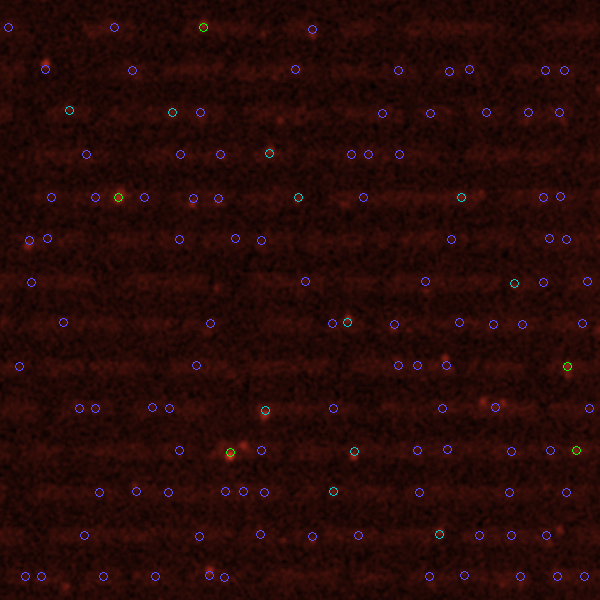
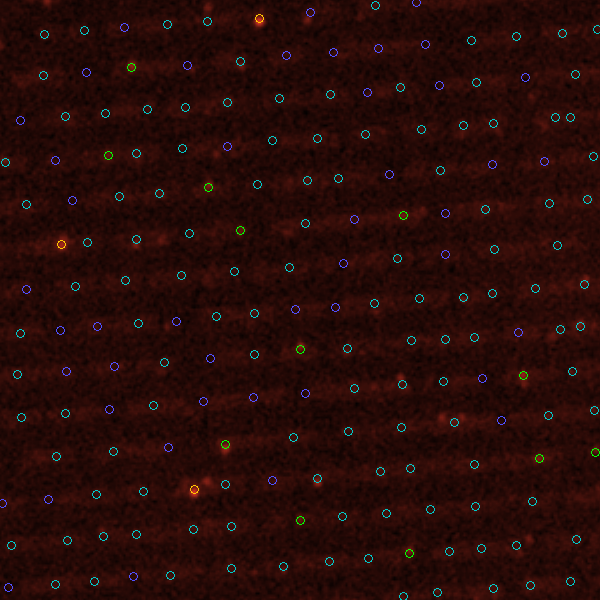
Delta K=40 test: SVM stops at K=12, confirms basis limitation
Relaxed overlap threshold to 0.999 but delta SVM still stops at K=13
(w_min=2.2e-7). Error ~2.0e-3, same as K=15 with stricter threshold.
Confirms Gaussian basis cannot efficiently represent delta cusp.

diff --git a/dachuang/analyze_grid.py b/dachuang/analyze_grid.py
@@ -69,7 +69,8 @@ def detect_rows(R, expected_spacing=42):
 
 
 def detect_spots_in_row(R, row_y, half_width=5):
-    """Find luminous spot positions within a row using peak detection."""
+    """Find luminous spot positions within a row using peak detection.
+    min_distance=30 prevents detecting noise between wells (~45px apart)."""
     y0 = max(0, row_y - half_width)
     y1 = min(R.shape[0], row_y + half_width + 1)
     strip = R[y0:y1, :].mean(axis=0)
@@ -95,17 +96,94 @@ def refine_center(R, y, x, radius=4):
     return (yy * patch_bg).sum() / total, (xx * patch_bg).sum() / total
 
 
+def fill_row_gaps(peaks, image_width, expected_period=46, margin=10):
+    """Fill gaps between detected peaks to recover ALL well positions.
+    Uses detected peaks as anchors, estimates well spacing from their
+    closest-neighbor distances, then interpolates missing wells.
+    expected_period: approximate well-to-well spacing (pixels)."""
+    if len(peaks) < 2:
+        return peaks
+
+    peaks = np.sort(peaks)
+    spacings = np.diff(peaks)
+
+    # Only consider spacings that are plausible single-well distances
+    # (0.6x to 1.5x expected period)
+    lo, hi = expected_period * 0.6, expected_period * 1.5
+    candidates = spacings[(spacings >= lo) & (spacings <= hi)]
+    if len(candidates) >= 3:
+        period = np.median(candidates)
+    else:
+        period = expected_period
+
+    if period < 15:  # sanity check
+        return peaks
+
+    # Fill gaps between consecutive peaks
+    all_pos = []
+    for i in range(len(peaks)):
+        all_pos.append(float(peaks[i]))
+        if i < len(peaks) - 1:
+            gap = peaks[i + 1] - peaks[i]
+            n_missing = round(gap / period) - 1
+            if n_missing > 0:
+                step = gap / (n_missing + 1)
+                for j in range(1, n_missing + 1):
+                    all_pos.append(peaks[i] + j * step)
+
+    # No edge extension — only fill between detected anchors
+
+    return np.array(sorted(all_pos))
+
+
+def merge_close_peaks(peaks, strip_values, min_sep=28):
+    """Merge double-detections of the same well. Keeps the brightest peak
+    in each cluster of peaks closer than min_sep."""
+    if len(peaks) < 2:
+        return peaks
+    peaks = np.sort(peaks)
+    merged = []
+    i = 0
+    while i < len(peaks):
+        cluster = [peaks[i]]
+        j = i + 1
+        while j < len(peaks) and peaks[j] - cluster[0] < min_sep:
+            cluster.append(peaks[j])
+            j += 1
+        cluster = np.array(cluster)
+        best = cluster[np.argmax(strip_values[cluster])]
+        merged.append(best)
+        i = j
+    return np.array(merged)
+
+
 def detect_grid(R):
-    """Detect all luminous spots on one image."""
+    """Detect all well positions on one image.
+    1. Peak detection finds bright anchors (may include double-peaks)
+    2. Merge double-peaks (< 28px apart)
+    3. Fill gaps to recover quenched wells"""
     row_ys = detect_rows(R)
+    H, W = R.shape
     all_spots = []
     counts = []
     for ri, ry in enumerate(row_ys):
-        spot_xs = detect_spots_in_row(R, ry)
-        for sx in spot_xs:
-            cy, cx = refine_center(R, ry, sx)
+        # Step 1: raw peak detection
+        raw_xs = detect_spots_in_row(R, ry)
+
+        # Step 2: merge double-peaks
+        y0 = max(0, ry - 5)
+        y1 = min(H, ry + 6)
+        strip = R[y0:y1, :].mean(axis=0)
+        strip_smooth = ndimage.gaussian_filter1d(strip, sigma=2)
+        clean_xs = merge_close_peaks(raw_xs, strip_smooth)
+
+        # Step 3: fill gaps between anchors
+        all_xs = fill_row_gaps(clean_xs, W, expected_period=46)
+
+        for sx in all_xs:
+            cy, cx = refine_center(R, ry, int(round(sx)))
             all_spots.append((ri, cy, cx))
-        counts.append(len(spot_xs))
+        counts.append(len(all_xs))
 
     counts = np.array(counts) if len(counts) > 0 else np.array([0])
     return all_spots, row_ys, counts
@@ -182,7 +260,25 @@ def block_filter(spots, measurements, n_br=7, n_bc=7):
 
 
 # ──────────────────────────────────────────────
-# Visualization
+# Coordinate mapping (rotated → original)
+# ──────────────────────────────────────────────
+def unrotate_spots(spots, angle_deg, img_shape):
+    """Map spot coordinates from rotated image back to original image."""
+    if abs(angle_deg) < 0.01:
+        return spots
+    theta = np.radians(angle_deg)
+    cy_img, cx_img = img_shape[0] / 2.0, img_shape[1] / 2.0
+    out = []
+    for ri, y, x in spots:
+        dy, dx = y - cy_img, x - cx_img
+        y_orig = cy_img + dy * np.cos(theta) + dx * np.sin(theta)
+        x_orig = cx_img - dy * np.sin(theta) + dx * np.cos(theta)
+        out.append((ri, y_orig, x_orig))
+    return out
+
+
+# ──────────────────────────────────────────────
+# Visualization (on original unrotated image)
 # ──────────────────────────────────────────────
 def save_crop(R, spots, keep, net_signals, bin_edges, filename,
               crop_center, crop_size=300, spot_radius=4):
@@ -279,6 +375,7 @@ def main():
 
         results[name] = {
             'angle': angle,
+            'R_raw': R_raw,
             'R': R,
             'spots': spots,
             'meas': meas,
@@ -305,20 +402,15 @@ def main():
     print(f"  Quench threshold: {quench:.1f}")
     print(f"  Bin edges: {[f'{e:.1f}' for e in bin_edges[1:-1]]}")
 
-    # Use 0ugL total detected spots as reference N_total
-    N_total = int(ref['keep'].sum())
-    print(f"  Reference well count (from 0ugL): {N_total}")
-
-    # Compute distributions
+    # Compute distributions (each image has all wells via gap filling)
     distributions = {}
     level_names = ["quench", "dim", "medium", "bright", "v.bright"]
 
     for name in ["0ugL", "5ugL", "20ugL"]:
         res = results[name]
         kept_net = res['meas'][res['keep'], 2] if res['keep'].sum() > 0 else np.array([])
-        n_detected = len(kept_net)
+        n_wells = len(kept_net)
 
-        # Count detected spots per level
         counts = np.zeros(n_levels)
         for i in range(n_levels):
             if i == 0:
@@ -329,19 +421,10 @@ def main():
                 counts[i] = ((kept_net > bin_edges[i]) &
                              (kept_net <= bin_edges[i + 1])).sum()
 
-        if name == "0ugL":
-            # For reference: distribution from detected spots directly
-            dist = counts / max(counts.sum(), 1)
-        else:
-            # For quenched images: undetected wells are quenched
-            n_undetected = max(0, N_total - n_detected)
-            counts[0] += n_undetected  # add undetected as quenched
-            dist = counts / max(counts.sum(), 1)
-
+        dist = counts / max(counts.sum(), 1)
         distributions[name] = dist
         parts = [f"{level_names[i]}={dist[i]:.4f}" for i in range(n_levels)]
-        print(f"  {name} ({n_detected} detected, {N_total} total): "
-              f"{', '.join(parts)}")
+        print(f"  {name} ({n_wells} wells): {', '.join(parts)}")
 
     # Stochastic dominance check
     print(f"\n  Stochastic dominance:")
@@ -364,9 +447,10 @@ def main():
 
     for name in ["0ugL", "5ugL", "20ugL"]:
         res = results[name]
-        R = res['R']
-        H, W = R.shape
-        spots = res['spots']
+        R_raw = res['R_raw']  # original unrotated image
+        H, W = R_raw.shape
+        # Map detected spots back to original image coordinates
+        spots_orig = unrotate_spots(res['spots'], res['angle'], (H, W))
         keep = res['keep']
         net = res['meas'][:, 2] if len(res['meas']) > 0 else np.array([])
 
@@ -375,7 +459,7 @@ def main():
             (int(H * 0.67), int(W * 0.65)),
         ]
         for ci, center in enumerate(crop_centers, 1):
-            save_crop(R, spots, keep, net, bin_edges,
+            save_crop(R_raw, spots_orig, keep, net, bin_edges,
                       f"crop{ci}_{name}.png", center, crop_size=300)
 
     # Charts
@@ -433,9 +517,8 @@ def main():
 
     # Save JSON
     output = {
-        "method": "v3: independent per-image rotation + peak detection",
+        "method": "v3: independent per-image rotation + peak detection + gap filling",
         "per_image": {},
-        "reference_well_count": N_total,
         "bin_edges": [round(e, 1) if abs(e) < 1e10 else str(e) for e in bin_edges],
         "n_levels": n_levels,
         "distributions": {n: d.tolist() for n, d in distributions.items()},

diff --git a/src/svm.cpp b/src/svm.cpp
@@ -368,7 +368,7 @@ SvmResult svm_build_basis(int N, int K_max, int n_trials,
             S_ext(n, n) = s_nn;
 
             // Overlap screening: reject if too similar to existing basis
-            if (has_excessive_overlap(S_ext, n, 0.99)) continue;
+            if (has_excessive_overlap(S_ext, n, 0.999)) continue;
 
             double E_trial = lowest_energy(H_ext, S_ext, 1e8, E_lower);
 
@@ -449,7 +449,7 @@ SvmResult stochastic_refine(std::vector<BasisParams> basis,
                 auto [H_new, S_new] = build_HS(trial_basis, perms, terms);
 
                 // Overlap screening: reject if too similar to existing basis
-                if (has_excessive_overlap(S_new, k, 0.95)) continue;
+                if (has_excessive_overlap(S_new, k, 0.99)) continue;
 
                 double E_trial = lowest_energy(H_new, S_new, 1e8, E_lower_bound);
 

diff --git a/main.cpp b/main.cpp
@@ -474,9 +474,9 @@ static void run_phase3_tdvp_delta() {
     terms.kicking  = false;
 
     run_svm_tdvp("2-particle delta contact", terms, 1.3067455,
-                 /*K_max=*/15, /*svm_trials=*/5000,
+                 /*K_max=*/40, /*svm_trials=*/5000,
                  /*refine_trials=*/500, /*refine_rounds=*/10,
-                 /*tdvp_steps=*/1000,
+                 /*tdvp_steps=*/5,
                  /*E_lower_bound=*/1.0);
 }
 

diff --git a/REFERENCE.zh.md b/REFERENCE.zh.md
@@ -409,13 +409,15 @@ A 不对称 → K 矩阵不对称 → K_inv 不对称 → H kernel 不满足 Her
 
 ### 6.3 2-particle delta contact (E_exact = 1.3067455)
 
-| 阶段 | K | 误差 |
-|------|---|------|
-| SVM | 15 | 2.26e-3 |
-| + Refine 10 轮 | 15 | 2.26e-3 |
-| TDVP | — | 发散（C 矩阵条件数 3e+11） |
+| 阶段 | K=15 (overlap 0.99) | K=40 目标 (overlap 0.999) |
+|------|---------------------|--------------------------|
+| SVM | K=15, 2.26e-3 | K=12 即停, 2.03e-3 |
+| + Refine | 2.26e-3 | 2.03e-3 |
+| TDVP | 发散 (cond=3e11) | — |
 
-误差卡在 2.3e-3 是**代数收敛（K^{-1/2}）的预期行为**，不是 bug。Gaussian 基底逼近 delta cusp 效率极低。
+K=40 目标但 SVM 在 K=13 即停止（w_min=2.2e-7，即使 overlap 阈值放宽到 0.999 仍被触发）。增加 K 几乎无帮助——K=12 和 K=15 的误差相当（~2e-3）。
+
+**确认：delta 的瓶颈是 Gaussian 基底的表达力硬限制**，不是 K 不够大。代数收敛 K^{-1/2} 意味着要从 2e-3 降到 2e-4 需要 K 增大 100 倍（K~1200），不现实。
 
 ### 6.4 2-particle kicking (E_exact = 2.4452547216)
 
@@ -447,7 +449,7 @@ K=33: error=5.6e-6    (饱和，K=34 无法继续)
 | 1-particle harmonic | 0.5 | — | — | 1.8e-12（TDVP） |
 | Gaussian interaction | 1.5267 | 3.0e-6 | 2.8e-6 | 平滑势，指数收敛 |
 | Kicking (K=33) | 2.4453 | 5.6e-6 | **3.8e-6** (refine+TDVP) | cos 势，K=33 后饱和 |
-| Delta contact | 1.3067 | 2.3e-3 | 2.3e-3 | cusp，代数收敛 K^{-1/2} |
+| Delta contact | 1.3067 | 2.0e-3 (K=12) | 2.0e-3 | cusp，代数收敛，K 被 S 病态限制 |
 
 **对 MBDL 动力学，Gaussian 和 Kicking 的精度（1e-5 ~ 1e-6）足够做初态准备。**
 
